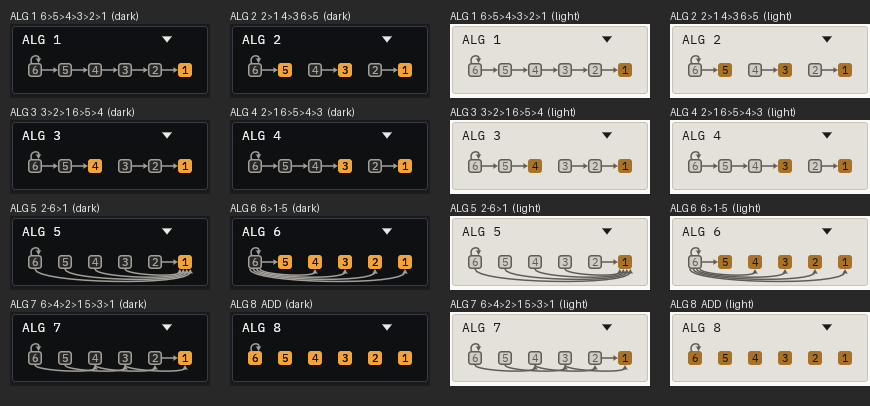
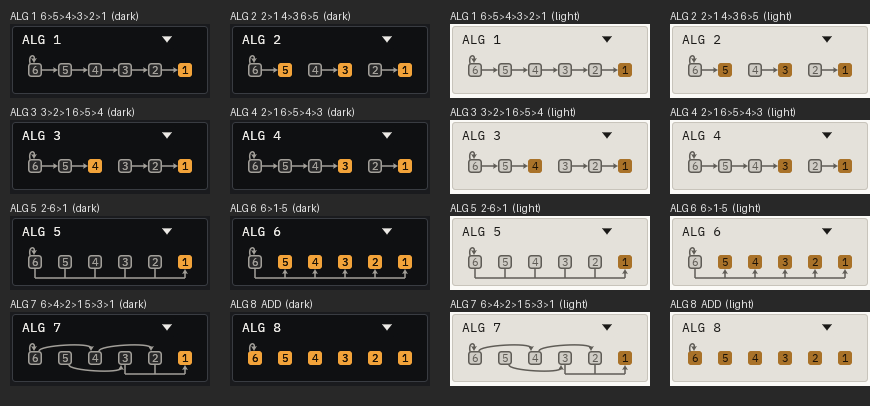
UI G3 fm6: algorithm graph uses a bus for fan-in and fan-out, curves over/under for single far edges
Claude-Session: https://claude.ai/code/session_01Jy6KS8nYySyc2usWS86kz5

diff --git a/crates/ui/src/fm6.rs b/crates/ui/src/fm6.rs
@@ -126,10 +126,13 @@ pub(crate) fn draw(
     }
 }
 
-/// Operator graph: solid boxes 6..1 left to right. A modulation edge between neighbours is a
-/// short arrow from box edge to box edge; any other edge is a curve under the row that leaves a
-/// box's bottom and arrives at the target's bottom. Carriers are filled with the accent;
-/// operator 6's feedback is a small arc over it. Strokes are 1.5 px in the display ink.
+/// Operator graph: solid boxes 6..1 left to right, strokes 1.5 px in the display ink.
+/// - A modulation edge between neighbours is a short arrow, box edge to box edge.
+/// - A target with several modulators (fan-in) and a modulator with several targets (fan-out)
+///   use one bus line under the row: short drops, ONE arrowhead per target.
+/// - Any other edge is a curve over (even source) or under (odd source) the row.
+/// - Carriers are filled with the accent; operator 6's feedback is a small arc over its box.
+/// Nothing is drawn across a box.
 pub(crate) fn graph(p: &egui::Painter, st: &crate::style::Style, xf: Xf, well: Rect, alg: usize) {
     let ro = &st.roles;
     let z = xf.zoom;
@@ -137,8 +140,13 @@ pub(crate) fn graph(p: &egui::Painter, st: &crate::style::Style, xf: Xf, well: R
     let (bw, pitch) = (14.0, 30.0);
     let x0 = well.center().x - 2.5 * pitch;
     let cy = well.top() + 44.0;
-    let at = |op: usize| pos2(x0 + (6 - op) as f32 * pitch, cy);
+    let (top, bottom) = (cy - bw / 2.0, cy + bw / 2.0);
+    let bus_y = bottom + 9.0;
+    let x_of = |op: usize| x0 + (6 - op) as f32 * pitch;
     let line = Stroke::new(1.5 * z.max(0.7), ro.disp_text);
+    let seg = |a: Pos2, b: Pos2| {
+        p.line_segment([xf.p(a), xf.p(b)], line);
+    };
     // Filled arrowhead with its tip at `tip` (world), pointing along `dir`.
     let head = |tip: Pos2, dir: egui::Vec2| {
         let n = vec2(-dir.y, dir.x);
@@ -166,39 +174,61 @@ pub(crate) fn graph(p: &egui::Painter, st: &crate::style::Style, xf: Xf, well: R
             .collect();
         p.add(egui::Shape::line(pts, line));
     };
-    // Edges as (source op, target op), numbers 1..6.
-    let edges: Vec<(usize, usize)> = (0..6usize)
+    // Edges (source op, target op), numbers 1..6; each is drawn once.
+    let mut edges: Vec<(usize, usize)> = (0..6usize)
         .flat_map(|k| (k + 1..6).map(move |j| (j, k)))
         .filter(|&(j, k)| a.mods[k] >> j & 1 == 1)
         .map(|(j, k)| (j + 1, k + 1))
         .collect();
-    let far: Vec<(usize, usize)> = edges.iter().copied().filter(|&(j, k)| j != k + 1).collect();
-    // Arcs sharing a box end are spread along its bottom so they do not land on one point.
-    let spread = |n: usize, i: usize| (i as f32 - (n as f32 - 1.0) / 2.0) * 3.5;
-    let rank = |same: &dyn Fn(&(usize, usize)) -> bool, e: &(usize, usize)| {
-        let all: Vec<&(usize, usize)> = far.iter().filter(|x| same(x)).collect();
-        (all.len(), all.iter().position(|x| *x == e).unwrap_or(0))
-    };
-    for e @ &(j, k) in &edges {
-        let (from, to) = (at(j), at(k));
-        if j == k + 1 {
-            let (s, t) = (from.x + bw / 2.0, to.x - bw / 2.0);
-            p.line_segment([xf.p(pos2(s, cy)), xf.p(pos2(t - 3.0, cy))], line);
-            head(pos2(t, cy), vec2(1.0, 0.0));
-        } else {
-            let (ns, is) = rank(&|x| x.0 == j, e);
-            let (nt, it) = rank(&|x| x.1 == k, e);
-            let bottom = cy + bw / 2.0;
-            let s = pos2(from.x + spread(ns, is), bottom);
-            let t = pos2(to.x + spread(nt, it), bottom + 3.0);
-            // Controls straight below the ends: the curve leaves and arrives vertically.
-            let d = 2.9 * (j - k) as f32;
-            curve(s, s + vec2(0.0, d), t + vec2(0.0, d), t);
-            head(pos2(t.x, bottom), vec2(0.0, -1.0));
+    // Fan-in: a target with two or more modulators. One bus, one arrowhead.
+    for t in 1..=6usize {
+        let src: Vec<usize> = edges.iter().filter(|e| e.1 == t).map(|e| e.0).collect();
+        if src.len() < 2 {
+            continue;
         }
+        let left = src.iter().map(|&s| x_of(s)).fold(f32::MAX, f32::min);
+        for &s in &src {
+            seg(pos2(x_of(s), bottom), pos2(x_of(s), bus_y));
+        }
+        seg(pos2(left, bus_y), pos2(x_of(t), bus_y));
+        seg(pos2(x_of(t), bus_y), pos2(x_of(t), bottom + 4.0));
+        head(pos2(x_of(t), bottom), vec2(0.0, -1.0));
+        edges.retain(|e| e.1 != t);
+    }
+    // Fan-out: a modulator with two or more targets. One line into the bus, a drop per target.
+    for s in 1..=6usize {
+        let dst: Vec<usize> = edges.iter().filter(|e| e.0 == s).map(|e| e.1).collect();
+        if dst.len() < 2 {
+            continue;
+        }
+        let right = dst.iter().map(|&t| x_of(t)).fold(f32::MIN, f32::max);
+        seg(pos2(x_of(s), bottom), pos2(x_of(s), bus_y));
+        seg(pos2(x_of(s), bus_y), pos2(right, bus_y));
+        for &t in &dst {
+            seg(pos2(x_of(t), bus_y), pos2(x_of(t), bottom + 4.0));
+            head(pos2(x_of(t), bottom), vec2(0.0, -1.0));
+        }
+        edges.retain(|e| e.0 != s);
+    }
+    // Single edges: neighbours get an arrow, others a curve over or under the row.
+    for &(j, k) in &edges {
+        let (xs, xt) = (x_of(j), x_of(k));
+        if j == k + 1 {
+            seg(pos2(xs + bw / 2.0, cy), pos2(xt - bw / 2.0 - 3.0, cy));
+            head(pos2(xt - bw / 2.0, cy), vec2(1.0, 0.0));
+            continue;
+        }
+        // Even sources go over the row, odd ones under it; ends sit 4 px off the box centre.
+        let up = if j % 2 == 0 { -1.0 } else { 1.0 };
+        let edge_y = if up < 0.0 { top } else { bottom };
+        let d = 2.9 * (j - k) as f32 * up;
+        let s = pos2(xs + 4.0, edge_y);
+        let t = pos2(xt - 4.0, edge_y + 3.0 * up);
+        curve(s, s + vec2(0.0, d), t + vec2(0.0, d), t);
+        head(pos2(t.x, edge_y), vec2(0.0, -up));
     }
     for op in 1..=6usize {
-        let r = Rect::from_center_size(xf.p(at(op)), vec2(bw, bw) * z);
+        let r = Rect::from_center_size(xf.p(pos2(x_of(op), cy)), vec2(bw, bw) * z);
         let carrier = a.carriers >> (op - 1) & 1 == 1;
         let fill = if carrier {
             ro.accent
@@ -225,15 +255,15 @@ pub(crate) fn graph(p: &egui::Painter, st: &crate::style::Style, xf: Xf, well: R
             );
         }
     }
-    // Feedback of operator 6: a small arc over its box, arrowhead back into the box.
-    let f = at(6) + vec2(0.0, -bw / 2.0);
+    // Feedback of operator 6: a small arc over the left half of its box, arrowhead into the box.
+    let f = pos2(x_of(6), top);
     curve(
-        f + vec2(-3.5, 0.0),
-        f + vec2(-6.5, -9.0),
-        f + vec2(6.5, -9.0),
-        f + vec2(3.5, -3.0),
+        f + vec2(-5.0, 0.0),
+        f + vec2(-7.0, -9.0),
+        f + vec2(1.0, -9.0),
+        f + vec2(-1.0, -3.0),
     );
-    head(f + vec2(3.5, 0.0), vec2(0.0, 1.0));
+    head(f + vec2(-1.0, 0.0), vec2(0.0, 1.0));
 }
 
 /// One operator's envelope curve with four draggable handles.
